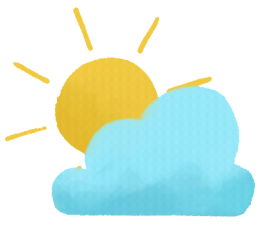
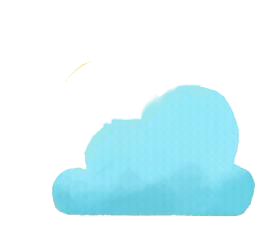
Today's Summary:
Changes in:
navigation.dart
settings_page.dart
bookmarks_page.dart
devtools_options.yaml (idk)
sun cloudy.png

Additions:
- changed some of the  app colors from green and purple to shades of grey
- removed the sun from the cloud

Bug fixes:
- no bug fixes

diff --git a/lib/settings_page.dart b/lib/settings_page.dart
@@ -20,22 +20,6 @@ class SettingsPage extends StatelessWidget {
           // List of settings
           children: [
             ListTile(
-              leading: const Icon(Icons.language),
-              title: const Text('Language'),
-              subtitle: const Text('Change language preferences'),
-              onTap: () {
-                // Navigate to language settings
-              },
-            ),
-            ListTile(
-              leading: const Icon(Icons.light_mode_outlined),
-              title: const Text('Theme'),
-              subtitle: const Text('Switch between appearance mode'),
-              onTap: () {
-                // Navigate to theme settings
-              },
-            ),
-            ListTile(
               leading: const Icon(Icons.settings_input_component_outlined), //change it to whatever icon you want
               title: const Text('Units'),
               subtitle: const Text('Change units of measurement'),

diff --git a/lib/navigation.dart b/lib/navigation.dart
@@ -36,7 +36,7 @@ class _NavigationState extends State<Navigation> {
           ),
           backgroundColor: const Color(0xFFDCE3EA), // Page background color
           bottomNavigationBar: NavigationBar(
-            indicatorColor: Colors.green, // NavBar Indicator color
+            indicatorColor: Colors.grey, // NavBar Indicator color
             backgroundColor:
                 Colors.white.withOpacity(0.5), // NavBar background color
             onDestinationSelected: (int index) {

diff --git a/lib/bookmarks_page.dart b/lib/bookmarks_page.dart
@@ -392,7 +392,8 @@ class BookmarksPageState extends State<BookmarksPage> {
             ),
         ],
       ),
-      floatingActionButton: FloatingActionButton( // Floating action button to add a bookmark
+      floatingActionButton: FloatingActionButton(// Floating action button to add a bookmark
+        backgroundColor: Colors.grey[200],
         onPressed: () {
           _toggleTextBox();
         },
